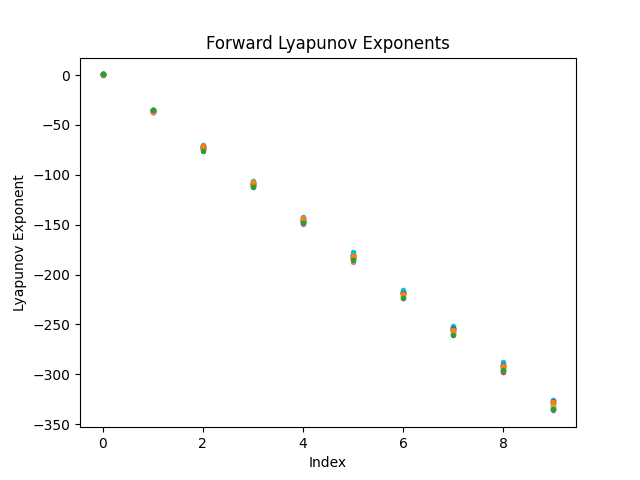
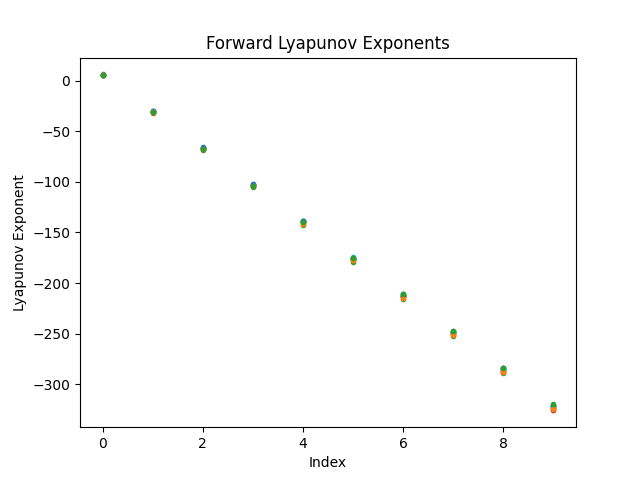
.

diff --git a/code/nn/main.py b/code/nn/main.py
@@ -1,9 +1,7 @@
 import numpy as np
-from scipy.integrate import solve_ivp
 from scipy.linalg import qr
 import matplotlib.pylab as plt
 from mnist import load_mnist
-import sys
 import os
 
 num = 13
@@ -14,7 +12,7 @@ def sigmoid(x):
 
 
 def sigmoid_grad(x):
-    return (1.0 - sigmoid(x)) * sigmoid(x)
+    return np.dot(sigmoid(x), (1 - sigmoid(x)))
 
 
 def softmax(x):
@@ -27,7 +25,7 @@ def softmax(x):
     return np.exp(x) / np.sum(np.exp(x))
 
 def softmax_grad(x):
-    return softmax(x) * (1 - softmax(x))
+    return np.dot(softmax(x).T, (1 - softmax(x)))
 
 def cross_entropy_error(y, t):
     if y.ndim == 1:
@@ -135,21 +133,6 @@ if __name__ == "__main__":
     W2 = network.params['W2']
     b2 = network.params['b2']
 
-    def f1(x):
-        return sigmoid(np.dot(x.T, W1) + b1).flatten()
-
-    def f2(z):
-        return softmax(np.dot(z.T, W2) + b2).flatten()
-
-    def f1_grad(dz):
-        dx = np.dot(W1, sigmoid_grad(dz))
-        return dx
-
-    def f2_grad(dy):
-        dz = np.dot(W2, softmax_grad(dy))
-        return dz
-        
-
     forward_lambdas_s = []
     backward_lambdas_s = []
 
@@ -160,6 +143,11 @@ if __name__ == "__main__":
 
         idx = np.random.randint(0, 60000)
         x = x_train[idx].flatten()
+        z = sigmoid(np.dot(x.T, W1) + b1).flatten()
+        y = softmax(np.dot(z.T, W2) + b2).flatten()
+        dy_dz = np.dot(W2, softmax_grad(y))
+        dz_dx = np.dot(W1, sigmoid_grad(z))
+
         Q0 = np.linalg.qr(np.random.randn(784, 50))[0]
 
         K = 2
@@ -167,22 +155,29 @@ if __name__ == "__main__":
         D_forward = []
         D_backward = []
 
+        v0 = np.random.randn(784)
+        v1 = np.dot(v0, dz_dx)
+        v2 = np.dot(v1, dy_dz)
+
+        nu_2 = np.random.randn(10)
+        nu_1 = np.dot(nu_2, dy_dz.T)
+        nu_0 = np.dot(nu_1, dz_dx.T)
+
         # Forward - 1st time step
-        z = f1(x)
         _W1 = np.zeros((50, 50))
         for j in range(50):
             w0j = Q0[:, j]
-            w1j = f1(x)
+            w1j = np.dot(v0, dz_dx)
             _W1[:, j] = w1j
         Q1, R1 = qr(_W1)
         D_forward.append(np.diag(R1))
 
         # Forward - 2nd time step
-        y = f2(z)
+        v2 = np.dot(v1, dy_dz)
         _W2 = np.zeros((10, 10))
         for j in range(10):
             w1j = Q1[:50, j]
-            w2j = f2(z)
+            w2j = np.dot(v1, dy_dz)
             _W2[:, j] = w2j
         Q2, R2 = qr(_W2)
         D_forward.append(np.diag(R2))
@@ -191,21 +186,21 @@ if __name__ == "__main__":
         dy = np.random.randn(10)
 
         # Backward - 2nd time step
-        dz = f2_grad(dy)
+        nu_1 = np.dot(nu_2, dy_dz.T)
         _W2 = np.zeros((50, 10))
         for j in range(10):
             w2j = Q2[:, j]
-            w1j = f2_grad(dy)
+            w1j = np.dot(nu_2, dy_dz.T)
             _W2[:, j] = w1j
         Q1, R1 = qr(_W2)
         D_backward.append(np.diag(R1))
 
-        # Forward - 1st time step
-        dx = f1_grad(dz)
+        # Backward - 1st time step
+        nu_0 = np.dot(nu_1, dz_dx.T)
         _W1 = np.zeros((784, 50))
         for j in range(50):
             w1j = Q1[:, j]
-            w0j = f1_grad(dz)
+            w0j = np.dot(nu_1, dz_dx.T)
             _W1[:, j] = w0j
         Q0, R0 = qr(_W1)
         D_backward.append(np.diag(R0))
